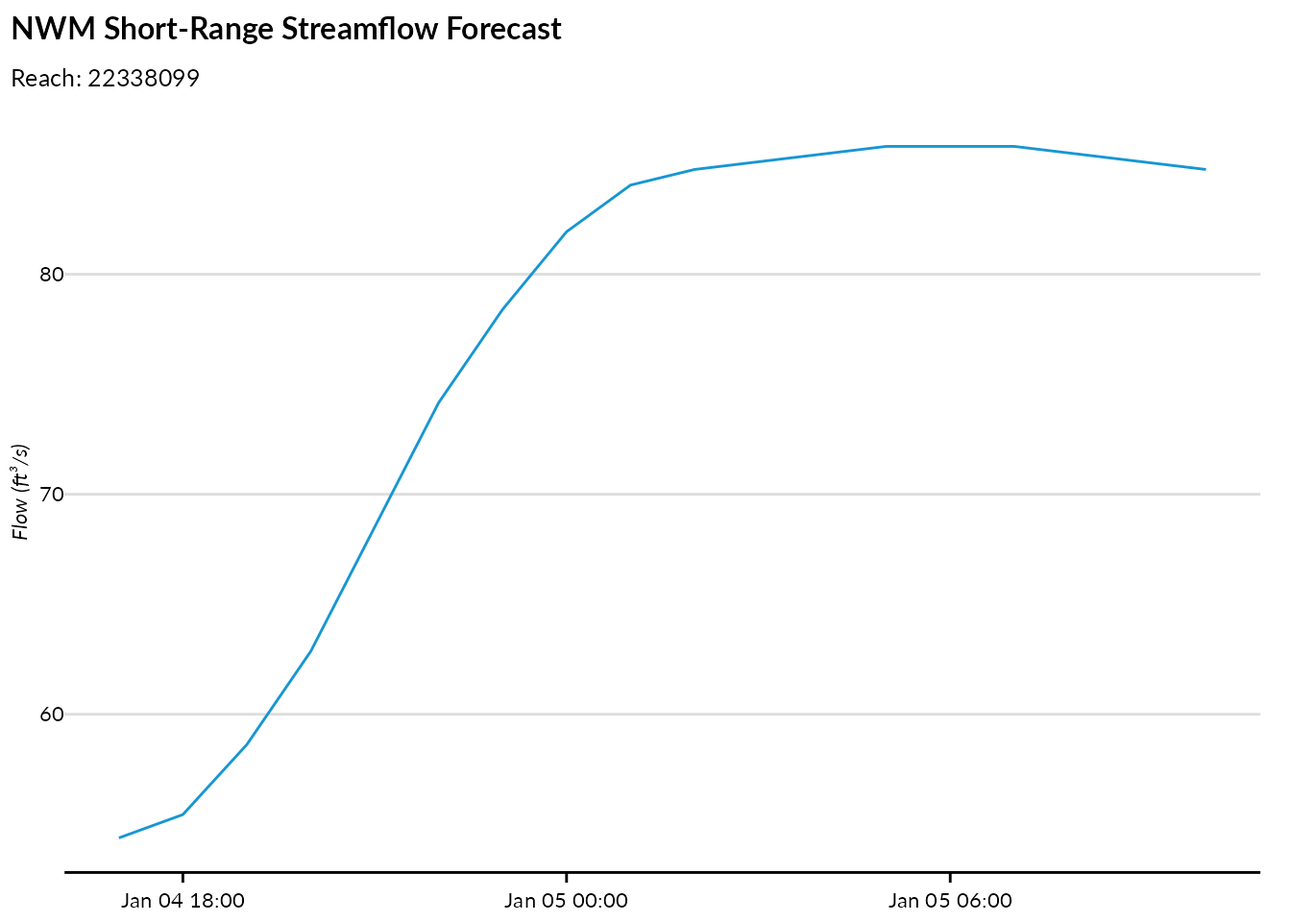
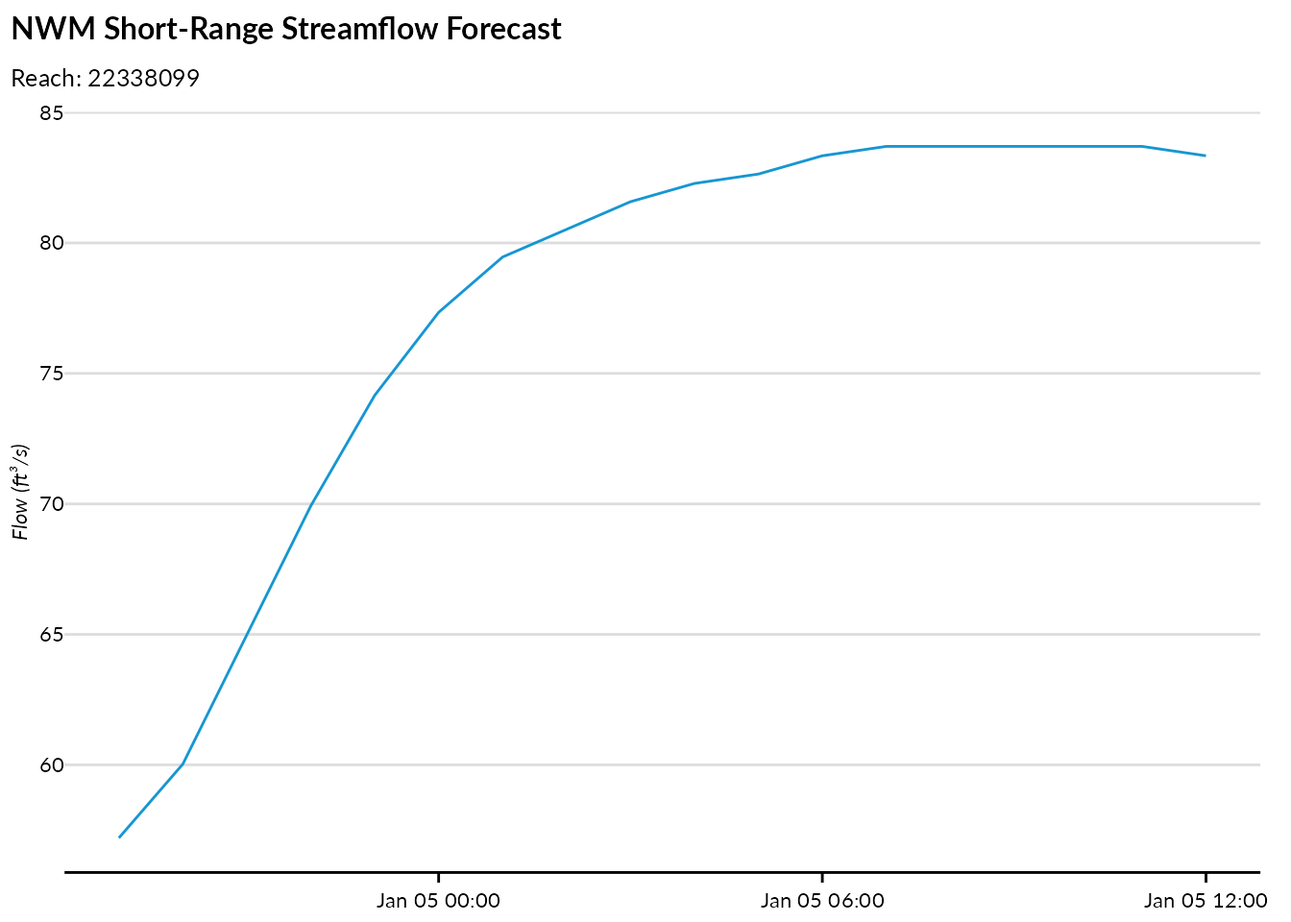
Deploying to gh-pages from @ UI-Research/nwps@914f04903dcc8dd50fd0116cf617ff0b85dbdf1f 🚀

diff --git a/articles/nwps.html b/articles/nwps.html
@@ -36,7 +36,7 @@
 <li class="nav-item"><form class="form-inline" role="search">
  <input class="form-control" type="search" name="search-input" id="search-input" autocomplete="off" aria-label="Search site" placeholder="Search for" data-search-index="../search.json">
 </form></li>
-<li class="nav-item"><a class="external-link nav-link" href="https://github.com/UI-Research/nwps" aria-label="GitHub"><span class="fa fa-github"></span></a></li>
+<li class="nav-item"><a class="external-link nav-link" href="https://github.com/UI-Research/nwps/" aria-label="GitHub"><span class="fa fab fa-github fa-lg"></span></a></li>
       </ul>
 </div>
 
@@ -256,7 +256,7 @@ time series. By default, it returns both observed and forecast data.</p>
 <span><span class="co">#&gt;   product  n_obs min_time            max_time           </span></span>
 <span><span class="co">#&gt;   <span style="color: #949494; font-style: italic;">&lt;chr&gt;</span>    <span style="color: #949494; font-style: italic;">&lt;int&gt;</span> <span style="color: #949494; font-style: italic;">&lt;dttm&gt;</span>              <span style="color: #949494; font-style: italic;">&lt;dttm&gt;</span>             </span></span>
 <span><span class="co">#&gt; <span style="color: #BCBCBC;">1</span> forecast    20 2026-01-04 <span style="color: #949494;">18:00:00</span> 2026-01-09 <span style="color: #949494;">12:00:00</span></span></span>
-<span><span class="co">#&gt; <span style="color: #BCBCBC;">2</span> observed  <span style="text-decoration: underline;">8</span>595 2025-12-05 <span style="color: #949494;">19:40:00</span> 2026-01-04 <span style="color: #949494;">19:00:00</span></span></span></code></pre></div>
+<span><span class="co">#&gt; <span style="color: #BCBCBC;">2</span> observed  <span style="text-decoration: underline;">8</span>594 2025-12-05 <span style="color: #949494;">20:15:00</span> 2026-01-04 <span style="color: #949494;">19:30:00</span></span></span></code></pre></div>
 </div>
 <div class="section level3">
 <h3 id="visualize-the-hydrograph">Visualize the hydrograph<a class="anchor" aria-label="anchor" href="#visualize-the-hydrograph"></a>
@@ -411,16 +411,16 @@ days)</li>
 <span><span class="co">#&gt; <span style="color: #949494;"># A tibble: 10 × 7</span></span></span>
 <span><span class="co">#&gt;    reach_id series    member reference_time      valid_time           flow units</span></span>
 <span><span class="co">#&gt;    <span style="color: #949494; font-style: italic;">&lt;chr&gt;</span>    <span style="color: #949494; font-style: italic;">&lt;chr&gt;</span>     <span style="color: #949494; font-style: italic;">&lt;chr&gt;</span>  <span style="color: #949494; font-style: italic;">&lt;dttm&gt;</span>              <span style="color: #949494; font-style: italic;">&lt;dttm&gt;</span>              <span style="color: #949494; font-style: italic;">&lt;dbl&gt;</span> <span style="color: #949494; font-style: italic;">&lt;chr&gt;</span></span></span>
-<span><span class="co">#&gt; <span style="color: #BCBCBC;"> 1</span> 22338099 short_ra… series 2026-01-04 <span style="color: #949494;">16:00:00</span> 2026-01-04 <span style="color: #949494;">17:00:00</span>  54.4 ft³/s</span></span>
-<span><span class="co">#&gt; <span style="color: #BCBCBC;"> 2</span> 22338099 short_ra… series 2026-01-04 <span style="color: #949494;">16:00:00</span> 2026-01-04 <span style="color: #949494;">18:00:00</span>  55.4 ft³/s</span></span>
-<span><span class="co">#&gt; <span style="color: #BCBCBC;"> 3</span> 22338099 short_ra… series 2026-01-04 <span style="color: #949494;">16:00:00</span> 2026-01-04 <span style="color: #949494;">19:00:00</span>  58.6 ft³/s</span></span>
-<span><span class="co">#&gt; <span style="color: #BCBCBC;"> 4</span> 22338099 short_ra… series 2026-01-04 <span style="color: #949494;">16:00:00</span> 2026-01-04 <span style="color: #949494;">20:00:00</span>  62.9 ft³/s</span></span>
-<span><span class="co">#&gt; <span style="color: #BCBCBC;"> 5</span> 22338099 short_ra… series 2026-01-04 <span style="color: #949494;">16:00:00</span> 2026-01-04 <span style="color: #949494;">21:00:00</span>  68.5 ft³/s</span></span>
-<span><span class="co">#&gt; <span style="color: #BCBCBC;"> 6</span> 22338099 short_ra… series 2026-01-04 <span style="color: #949494;">16:00:00</span> 2026-01-04 <span style="color: #949494;">22:00:00</span>  74.2 ft³/s</span></span>
-<span><span class="co">#&gt; <span style="color: #BCBCBC;"> 7</span> 22338099 short_ra… series 2026-01-04 <span style="color: #949494;">16:00:00</span> 2026-01-04 <span style="color: #949494;">23:00:00</span>  78.4 ft³/s</span></span>
-<span><span class="co">#&gt; <span style="color: #BCBCBC;"> 8</span> 22338099 short_ra… series 2026-01-04 <span style="color: #949494;">16:00:00</span> 2026-01-05 <span style="color: #949494;">00:00:00</span>  81.9 ft³/s</span></span>
-<span><span class="co">#&gt; <span style="color: #BCBCBC;"> 9</span> 22338099 short_ra… series 2026-01-04 <span style="color: #949494;">16:00:00</span> 2026-01-05 <span style="color: #949494;">01:00:00</span>  84.0 ft³/s</span></span>
-<span><span class="co">#&gt; <span style="color: #BCBCBC;">10</span> 22338099 short_ra… series 2026-01-04 <span style="color: #949494;">16:00:00</span> 2026-01-05 <span style="color: #949494;">02:00:00</span>  84.8 ft³/s</span></span></code></pre></div>
+<span><span class="co">#&gt; <span style="color: #BCBCBC;"> 1</span> 22338099 short_ra… series 2026-01-04 <span style="color: #949494;">18:00:00</span> 2026-01-04 <span style="color: #949494;">19:00:00</span>  57.2 ft³/s</span></span>
+<span><span class="co">#&gt; <span style="color: #BCBCBC;"> 2</span> 22338099 short_ra… series 2026-01-04 <span style="color: #949494;">18:00:00</span> 2026-01-04 <span style="color: #949494;">20:00:00</span>  60.0 ft³/s</span></span>
+<span><span class="co">#&gt; <span style="color: #BCBCBC;"> 3</span> 22338099 short_ra… series 2026-01-04 <span style="color: #949494;">18:00:00</span> 2026-01-04 <span style="color: #949494;">21:00:00</span>  65.0 ft³/s</span></span>
+<span><span class="co">#&gt; <span style="color: #BCBCBC;"> 4</span> 22338099 short_ra… series 2026-01-04 <span style="color: #949494;">18:00:00</span> 2026-01-04 <span style="color: #949494;">22:00:00</span>  69.9 ft³/s</span></span>
+<span><span class="co">#&gt; <span style="color: #BCBCBC;"> 5</span> 22338099 short_ra… series 2026-01-04 <span style="color: #949494;">18:00:00</span> 2026-01-04 <span style="color: #949494;">23:00:00</span>  74.2 ft³/s</span></span>
+<span><span class="co">#&gt; <span style="color: #BCBCBC;"> 6</span> 22338099 short_ra… series 2026-01-04 <span style="color: #949494;">18:00:00</span> 2026-01-05 <span style="color: #949494;">00:00:00</span>  77.3 ft³/s</span></span>
+<span><span class="co">#&gt; <span style="color: #BCBCBC;"> 7</span> 22338099 short_ra… series 2026-01-04 <span style="color: #949494;">18:00:00</span> 2026-01-05 <span style="color: #949494;">01:00:00</span>  79.5 ft³/s</span></span>
+<span><span class="co">#&gt; <span style="color: #BCBCBC;"> 8</span> 22338099 short_ra… series 2026-01-04 <span style="color: #949494;">18:00:00</span> 2026-01-05 <span style="color: #949494;">02:00:00</span>  80.5 ft³/s</span></span>
+<span><span class="co">#&gt; <span style="color: #BCBCBC;"> 9</span> 22338099 short_ra… series 2026-01-04 <span style="color: #949494;">18:00:00</span> 2026-01-05 <span style="color: #949494;">03:00:00</span>  81.6 ft³/s</span></span>
+<span><span class="co">#&gt; <span style="color: #BCBCBC;">10</span> 22338099 short_ra… series 2026-01-04 <span style="color: #949494;">18:00:00</span> 2026-01-05 <span style="color: #949494;">04:00:00</span>  82.3 ft³/s</span></span></code></pre></div>
 </div>
 <div class="section level3">
 <h3 id="visualize-nwm-forecasts">Visualize NWM forecasts<a class="anchor" aria-label="anchor" href="#visualize-nwm-forecasts"></a>
@@ -483,12 +483,12 @@ Source) code:</p>
 <span><span class="co">#&gt; <span style="color: #949494;"># A tibble: 6 × 12</span></span></span>
 <span><span class="co">#&gt;   pedts issued_time         wfo   time_zone valid_time         </span></span>
 <span><span class="co">#&gt;   <span style="color: #949494; font-style: italic;">&lt;chr&gt;</span> <span style="color: #949494; font-style: italic;">&lt;dttm&gt;</span>              <span style="color: #949494; font-style: italic;">&lt;chr&gt;</span> <span style="color: #949494; font-style: italic;">&lt;chr&gt;</span>     <span style="color: #949494; font-style: italic;">&lt;dttm&gt;</span>             </span></span>
-<span><span class="co">#&gt; <span style="color: #BCBCBC;">1</span> HGIRG 2026-01-04 <span style="color: #949494;">19:15:00</span> PBZ   EST5EDT   2025-12-05 <span style="color: #949494;">19:35:00</span></span></span>
-<span><span class="co">#&gt; <span style="color: #BCBCBC;">2</span> HGIRG 2026-01-04 <span style="color: #949494;">19:15:00</span> PBZ   EST5EDT   2025-12-05 <span style="color: #949494;">19:40:00</span></span></span>
-<span><span class="co">#&gt; <span style="color: #BCBCBC;">3</span> HGIRG 2026-01-04 <span style="color: #949494;">19:15:00</span> PBZ   EST5EDT   2025-12-05 <span style="color: #949494;">19:45:00</span></span></span>
-<span><span class="co">#&gt; <span style="color: #BCBCBC;">4</span> HGIRG 2026-01-04 <span style="color: #949494;">19:15:00</span> PBZ   EST5EDT   2025-12-05 <span style="color: #949494;">19:50:00</span></span></span>
-<span><span class="co">#&gt; <span style="color: #BCBCBC;">5</span> HGIRG 2026-01-04 <span style="color: #949494;">19:15:00</span> PBZ   EST5EDT   2025-12-05 <span style="color: #949494;">19:55:00</span></span></span>
-<span><span class="co">#&gt; <span style="color: #BCBCBC;">6</span> HGIRG 2026-01-04 <span style="color: #949494;">19:15:00</span> PBZ   EST5EDT   2025-12-05 <span style="color: #949494;">20:00:00</span></span></span>
+<span><span class="co">#&gt; <span style="color: #BCBCBC;">1</span> HGIRG 2026-01-04 <span style="color: #949494;">19:45:00</span> PBZ   EST5EDT   2025-12-05 <span style="color: #949494;">20:05:00</span></span></span>
+<span><span class="co">#&gt; <span style="color: #BCBCBC;">2</span> HGIRG 2026-01-04 <span style="color: #949494;">19:45:00</span> PBZ   EST5EDT   2025-12-05 <span style="color: #949494;">20:10:00</span></span></span>
+<span><span class="co">#&gt; <span style="color: #BCBCBC;">3</span> HGIRG 2026-01-04 <span style="color: #949494;">19:45:00</span> PBZ   EST5EDT   2025-12-05 <span style="color: #949494;">20:15:00</span></span></span>
+<span><span class="co">#&gt; <span style="color: #BCBCBC;">4</span> HGIRG 2026-01-04 <span style="color: #949494;">19:45:00</span> PBZ   EST5EDT   2025-12-05 <span style="color: #949494;">20:20:00</span></span></span>
+<span><span class="co">#&gt; <span style="color: #BCBCBC;">5</span> HGIRG 2026-01-04 <span style="color: #949494;">19:45:00</span> PBZ   EST5EDT   2025-12-05 <span style="color: #949494;">20:25:00</span></span></span>
+<span><span class="co">#&gt; <span style="color: #BCBCBC;">6</span> HGIRG 2026-01-04 <span style="color: #949494;">19:45:00</span> PBZ   EST5EDT   2025-12-05 <span style="color: #949494;">20:30:00</span></span></span>
 <span><span class="co">#&gt; <span style="color: #949494;"># ℹ 7 more variables: generated_time &lt;dttm&gt;, primary &lt;dbl&gt;, primary_name &lt;chr&gt;,</span></span></span>
 <span><span class="co">#&gt; <span style="color: #949494;">#   primary_units &lt;chr&gt;, secondary &lt;dbl&gt;, secondary_name &lt;chr&gt;,</span></span></span>
 <span><span class="co">#&gt; <span style="color: #949494;">#   secondary_units &lt;chr&gt;</span></span></span></code></pre></div>
@@ -510,14 +510,14 @@ status:</p>
 <span><span class="co">#&gt; <span style="color: #949494;"># A tibble: 9 × 3</span></span></span>
 <span><span class="co">#&gt;   type     category        count</span></span>
 <span><span class="co">#&gt;   <span style="color: #949494; font-style: italic;">&lt;chr&gt;</span>    <span style="color: #949494; font-style: italic;">&lt;chr&gt;</span>           <span style="color: #949494; font-style: italic;">&lt;int&gt;</span></span></span>
-<span><span class="co">#&gt; <span style="color: #BCBCBC;">1</span> observed action             27</span></span>
-<span><span class="co">#&gt; <span style="color: #BCBCBC;">2</span> observed low_threshold      99</span></span>
+<span><span class="co">#&gt; <span style="color: #BCBCBC;">1</span> observed action             28</span></span>
+<span><span class="co">#&gt; <span style="color: #BCBCBC;">2</span> observed low_threshold      98</span></span>
 <span><span class="co">#&gt; <span style="color: #BCBCBC;">3</span> observed major               2</span></span>
 <span><span class="co">#&gt; <span style="color: #BCBCBC;">4</span> observed minor               3</span></span>
 <span><span class="co">#&gt; <span style="color: #BCBCBC;">5</span> observed moderate            2</span></span>
-<span><span class="co">#&gt; <span style="color: #BCBCBC;">6</span> observed no_flooding      <span style="text-decoration: underline;">6</span>756</span></span>
-<span><span class="co">#&gt; <span style="color: #BCBCBC;">7</span> observed not_defined      <span style="text-decoration: underline;">3</span>943</span></span>
-<span><span class="co">#&gt; <span style="color: #BCBCBC;">8</span> observed obs_not_current   903</span></span>
+<span><span class="co">#&gt; <span style="color: #BCBCBC;">6</span> observed no_flooding      <span style="text-decoration: underline;">6</span>757</span></span>
+<span><span class="co">#&gt; <span style="color: #BCBCBC;">7</span> observed not_defined      <span style="text-decoration: underline;">3</span>948</span></span>
+<span><span class="co">#&gt; <span style="color: #BCBCBC;">8</span> observed obs_not_current   897</span></span>
 <span><span class="co">#&gt; <span style="color: #BCBCBC;">9</span> observed out_of_service    801</span></span>
 <span></span>
 <span><span class="co"># Gauges by forecast flood category</span></span>
@@ -525,8 +525,8 @@ status:</p>
 <span><span class="co">#&gt; <span style="color: #949494;"># A tibble: 8 × 3</span></span></span>
 <span><span class="co">#&gt;   type     category         count</span></span>
 <span><span class="co">#&gt;   <span style="color: #949494; font-style: italic;">&lt;chr&gt;</span>    <span style="color: #949494; font-style: italic;">&lt;chr&gt;</span>            <span style="color: #949494; font-style: italic;">&lt;int&gt;</span></span></span>
-<span><span class="co">#&gt; <span style="color: #BCBCBC;">1</span> forecast action              40</span></span>
-<span><span class="co">#&gt; <span style="color: #BCBCBC;">2</span> forecast fcst_not_current  <span style="text-decoration: underline;">9</span>608</span></span>
+<span><span class="co">#&gt; <span style="color: #BCBCBC;">1</span> forecast action              39</span></span>
+<span><span class="co">#&gt; <span style="color: #BCBCBC;">2</span> forecast fcst_not_current  <span style="text-decoration: underline;">9</span>609</span></span>
 <span><span class="co">#&gt; <span style="color: #BCBCBC;">3</span> forecast low_threshold        8</span></span>
 <span><span class="co">#&gt; <span style="color: #BCBCBC;">4</span> forecast minor                6</span></span>
 <span><span class="co">#&gt; <span style="color: #BCBCBC;">5</span> forecast moderate             1</span></span>
@@ -542,15 +542,15 @@ processing:</p>
 <span><span class="co">#&gt;    time_period count</span></span>
 <span><span class="co">#&gt;    <span style="color: #949494; font-style: italic;">&lt;chr&gt;</span>       <span style="color: #949494; font-style: italic;">&lt;int&gt;</span></span></span>
 <span><span class="co">#&gt; <span style="color: #BCBCBC;"> 1</span> t-10day     <span style="text-decoration: underline;">47</span>073</span></span>
-<span><span class="co">#&gt; <span style="color: #BCBCBC;"> 2</span> t-10hour     <span style="text-decoration: underline;">1</span>963</span></span>
+<span><span class="co">#&gt; <span style="color: #BCBCBC;"> 2</span> t-10hour     <span style="text-decoration: underline;">1</span>961</span></span>
 <span><span class="co">#&gt; <span style="color: #BCBCBC;"> 3</span> t-11day     <span style="text-decoration: underline;">47</span>112</span></span>
-<span><span class="co">#&gt; <span style="color: #BCBCBC;"> 4</span> t-11hour     <span style="text-decoration: underline;">1</span>962</span></span>
+<span><span class="co">#&gt; <span style="color: #BCBCBC;"> 4</span> t-11hour     <span style="text-decoration: underline;">1</span>963</span></span>
 <span><span class="co">#&gt; <span style="color: #BCBCBC;"> 5</span> t-12day     <span style="text-decoration: underline;">47</span>115</span></span>
-<span><span class="co">#&gt; <span style="color: #BCBCBC;"> 6</span> t-12hour     <span style="text-decoration: underline;">1</span>960</span></span>
+<span><span class="co">#&gt; <span style="color: #BCBCBC;"> 6</span> t-12hour     <span style="text-decoration: underline;">1</span>962</span></span>
 <span><span class="co">#&gt; <span style="color: #BCBCBC;"> 7</span> t-13day     <span style="text-decoration: underline;">47</span>117</span></span>
-<span><span class="co">#&gt; <span style="color: #BCBCBC;"> 8</span> t-13hour     <span style="text-decoration: underline;">1</span>959</span></span>
+<span><span class="co">#&gt; <span style="color: #BCBCBC;"> 8</span> t-13hour     <span style="text-decoration: underline;">1</span>960</span></span>
 <span><span class="co">#&gt; <span style="color: #BCBCBC;"> 9</span> t-14day     <span style="text-decoration: underline;">47</span>032</span></span>
-<span><span class="co">#&gt; <span style="color: #BCBCBC;">10</span> t-14hour     <span style="text-decoration: underline;">1</span>963</span></span>
+<span><span class="co">#&gt; <span style="color: #BCBCBC;">10</span> t-14hour     <span style="text-decoration: underline;">1</span>959</span></span>
 <span><span class="co">#&gt; <span style="color: #949494;"># ℹ 92 more rows</span></span></span>
 <span></span>
 <span><span class="co"># Long Range Outlook status</span></span>

diff --git a/reference/index.html b/reference/index.html
@@ -19,7 +19,7 @@
 <li class="active nav-item"><a class="nav-link" href="../reference/index.html">Reference</a></li>
       </ul><ul class="navbar-nav"><li class="nav-item"><form class="form-inline" role="search">
  <input class="form-control" type="search" name="search-input" id="search-input" autocomplete="off" aria-label="Search site" placeholder="Search for" data-search-index="../search.json"></form></li>
-<li class="nav-item"><a class="external-link nav-link" href="https://github.com/UI-Research/nwps" aria-label="GitHub"><span class="fa fa-github"></span></a></li>
+<li class="nav-item"><a class="external-link nav-link" href="https://github.com/UI-Research/nwps/" aria-label="GitHub"><span class="fa fab fa-github fa-lg"></span></a></li>
       </ul></div>
 
 
@@ -32,9 +32,9 @@
     </div>
 
     <div class="section level2">
-      <h2 id="gauge-functions">Gauge Functions<a class="anchor" aria-label="anchor" href="#gauge-functions"></a></h2>
+      <h2 id="all-functions">All functions<a class="anchor" aria-label="anchor" href="#all-functions"></a></h2>
 
-      <div class="section-desc"><p>Functions for accessing gauge data</p></div>
+
 
       <dl></dl></div><div class="section level2">
 
@@ -42,13 +42,6 @@
 
 
       <dl><dt>
-
-          <code><a href="nwps_gauges.html">nwps_gauges()</a></code>
-
-        </dt>
-        <dd>List NWPS gauges</dd>
-
-        <dt>
 
           <code><a href="nwps_gauge.html">nwps_gauge()</a></code>
 
@@ -68,17 +61,29 @@
 
         </dt>
         <dd>Get gauge stage/flow data</dd>
-      </dl></div><div class="section level2">
-      <h2 id="reach-functions">Reach Functions<a class="anchor" aria-label="anchor" href="#reach-functions"></a></h2>
 
-      <div class="section-desc"><p>Functions for accessing NWM reach data</p></div>
+        <dt>
 
-      <dl></dl></div><div class="section level2">
+          <code><a href="nwps_gauges.html">nwps_gauges()</a></code>
 
+        </dt>
+        <dd>List NWPS gauges</dd>
 
+        <dt>
 
+          <code><a href="nwps_monitor.html">nwps_monitor()</a></code>
 
-      <dl><dt>
+        </dt>
+        <dd>Get NWPS system monitoring status</dd>
+
+        <dt>
+
+          <code><a href="nwps_product_stageflow.html">nwps_product_stageflow()</a></code>
+
+        </dt>
+        <dd>Get stage/flow product by PEDTS code</dd>
+
+        <dt>
 
           <code><a href="nwps_reach.html">nwps_reach()</a></code>
 
@@ -91,41 +96,8 @@
 
         </dt>
         <dd>Get NWM reach streamflow forecasts</dd>
-      </dl></div><div class="section level2">
-      <h2 id="product-functions">Product Functions<a class="anchor" aria-label="anchor" href="#product-functions"></a></h2>
-
-      <div class="section-desc"><p>Functions for accessing stage/flow products</p></div>
-
-      <dl></dl></div><div class="section level2">
-
-
-
-
-      <dl><dt>
-
-          <code><a href="nwps_product_stageflow.html">nwps_product_stageflow()</a></code>
-
-        </dt>
-        <dd>Get stage/flow product by PEDTS code</dd>
-      </dl></div><div class="section level2">
-      <h2 id="utilities">Utilities<a class="anchor" aria-label="anchor" href="#utilities"></a></h2>
-
-      <div class="section-desc"><p>Helper and monitoring functions</p></div>
-
-      <dl></dl></div><div class="section level2">
-
-
-
-
-      <dl><dt>
-
-          <code><a href="nwps_monitor.html">nwps_monitor()</a></code>
-
-        </dt>
-        <dd>Get NWPS system monitoring status</dd>
       </dl></div>
-  </main><aside class="col-md-3"><nav id="toc" aria-label="Table of contents"><h2>On this page</h2>
-    </nav></aside></div>
+  </main></div>
 
 
     <footer><div class="pkgdown-footer-left">

diff --git a/reference/nwps_gauge_ratings.html b/reference/nwps_gauge_ratings.html
@@ -21,7 +21,7 @@ define the relationship between water level (stage) and discharge (flow)."></hea
 <li class="active nav-item"><a class="nav-link" href="../reference/index.html">Reference</a></li>
       </ul><ul class="navbar-nav"><li class="nav-item"><form class="form-inline" role="search">
  <input class="form-control" type="search" name="search-input" id="search-input" autocomplete="off" aria-label="Search site" placeholder="Search for" data-search-index="../search.json"></form></li>
-<li class="nav-item"><a class="external-link nav-link" href="https://github.com/UI-Research/nwps" aria-label="GitHub"><span class="fa fa-github"></span></a></li>
+<li class="nav-item"><a class="external-link nav-link" href="https://github.com/UI-Research/nwps/" aria-label="GitHub"><span class="fa fab fa-github fa-lg"></span></a></li>
       </ul></div>
 
 

diff --git a/reference/nwps_product_stageflow.html b/reference/nwps_product_stageflow.html
@@ -23,7 +23,7 @@ which specific data product to retrieve compared to nwps_gauge_stageflow()."></h
 <li class="active nav-item"><a class="nav-link" href="../reference/index.html">Reference</a></li>
       </ul><ul class="navbar-nav"><li class="nav-item"><form class="form-inline" role="search">
  <input class="form-control" type="search" name="search-input" id="search-input" autocomplete="off" aria-label="Search site" placeholder="Search for" data-search-index="../search.json"></form></li>
-<li class="nav-item"><a class="external-link nav-link" href="https://github.com/UI-Research/nwps" aria-label="GitHub"><span class="fa fa-github"></span></a></li>
+<li class="nav-item"><a class="external-link nav-link" href="https://github.com/UI-Research/nwps/" aria-label="GitHub"><span class="fa fab fa-github fa-lg"></span></a></li>
       </ul></div>
 
 

diff --git a/reference/nwps_reach.html b/reference/nwps_reach.html
@@ -21,7 +21,7 @@ location, available streamflow products, and upstream/downstream routing."></hea
 <li class="active nav-item"><a class="nav-link" href="../reference/index.html">Reference</a></li>
       </ul><ul class="navbar-nav"><li class="nav-item"><form class="form-inline" role="search">
  <input class="form-control" type="search" name="search-input" id="search-input" autocomplete="off" aria-label="Search site" placeholder="Search for" data-search-index="../search.json"></form></li>
-<li class="nav-item"><a class="external-link nav-link" href="https://github.com/UI-Research/nwps" aria-label="GitHub"><span class="fa fa-github"></span></a></li>
+<li class="nav-item"><a class="external-link nav-link" href="https://github.com/UI-Research/nwps/" aria-label="GitHub"><span class="fa fab fa-github fa-lg"></span></a></li>
       </ul></div>
 
 

diff --git a/reference/nwps_gauges.html b/reference/nwps_gauges.html
@@ -21,7 +21,7 @@ optionally filtered by bounding box and CatFIM configuration."></head><body>
 <li class="active nav-item"><a class="nav-link" href="../reference/index.html">Reference</a></li>
       </ul><ul class="navbar-nav"><li class="nav-item"><form class="form-inline" role="search">
  <input class="form-control" type="search" name="search-input" id="search-input" autocomplete="off" aria-label="Search site" placeholder="Search for" data-search-index="../search.json"></form></li>
-<li class="nav-item"><a class="external-link nav-link" href="https://github.com/UI-Research/nwps" aria-label="GitHub"><span class="fa fa-github"></span></a></li>
+<li class="nav-item"><a class="external-link nav-link" href="https://github.com/UI-Research/nwps/" aria-label="GitHub"><span class="fa fab fa-github fa-lg"></span></a></li>
       </ul></div>
 
 

diff --git a/reference/nwps_monitor.html b/reference/nwps_monitor.html
@@ -23,7 +23,7 @@ processing stats, and LRO (Long Range Outlook) data status."></head><body>
 <li class="active nav-item"><a class="nav-link" href="../reference/index.html">Reference</a></li>
       </ul><ul class="navbar-nav"><li class="nav-item"><form class="form-inline" role="search">
  <input class="form-control" type="search" name="search-input" id="search-input" autocomplete="off" aria-label="Search site" placeholder="Search for" data-search-index="../search.json"></form></li>
-<li class="nav-item"><a class="external-link nav-link" href="https://github.com/UI-Research/nwps" aria-label="GitHub"><span class="fa fa-github"></span></a></li>
+<li class="nav-item"><a class="external-link nav-link" href="https://github.com/UI-Research/nwps/" aria-label="GitHub"><span class="fa fab fa-github fa-lg"></span></a></li>
       </ul></div>
 
 

diff --git a/reference/nwps_reach_streamflow.html b/reference/nwps_reach_streamflow.html
@@ -23,7 +23,7 @@ configurations."></head><body>
 <li class="active nav-item"><a class="nav-link" href="../reference/index.html">Reference</a></li>
       </ul><ul class="navbar-nav"><li class="nav-item"><form class="form-inline" role="search">
  <input class="form-control" type="search" name="search-input" id="search-input" autocomplete="off" aria-label="Search site" placeholder="Search for" data-search-index="../search.json"></form></li>
-<li class="nav-item"><a class="external-link nav-link" href="https://github.com/UI-Research/nwps" aria-label="GitHub"><span class="fa fa-github"></span></a></li>
+<li class="nav-item"><a class="external-link nav-link" href="https://github.com/UI-Research/nwps/" aria-label="GitHub"><span class="fa fab fa-github fa-lg"></span></a></li>
       </ul></div>
 
 

diff --git a/reference/nwps_gauge_stageflow.html b/reference/nwps_gauge_stageflow.html
@@ -21,7 +21,7 @@ a gauge."></head><body>
 <li class="active nav-item"><a class="nav-link" href="../reference/index.html">Reference</a></li>
       </ul><ul class="navbar-nav"><li class="nav-item"><form class="form-inline" role="search">
  <input class="form-control" type="search" name="search-input" id="search-input" autocomplete="off" aria-label="Search site" placeholder="Search for" data-search-index="../search.json"></form></li>
-<li class="nav-item"><a class="external-link nav-link" href="https://github.com/UI-Research/nwps" aria-label="GitHub"><span class="fa fa-github"></span></a></li>
+<li class="nav-item"><a class="external-link nav-link" href="https://github.com/UI-Research/nwps/" aria-label="GitHub"><span class="fa fab fa-github fa-lg"></span></a></li>
       </ul></div>
 
 

diff --git a/reference/nwps_gauge.html b/reference/nwps_gauge.html
@@ -19,7 +19,7 @@
 <li class="active nav-item"><a class="nav-link" href="../reference/index.html">Reference</a></li>
       </ul><ul class="navbar-nav"><li class="nav-item"><form class="form-inline" role="search">
  <input class="form-control" type="search" name="search-input" id="search-input" autocomplete="off" aria-label="Search site" placeholder="Search for" data-search-index="../search.json"></form></li>
-<li class="nav-item"><a class="external-link nav-link" href="https://github.com/UI-Research/nwps" aria-label="GitHub"><span class="fa fa-github"></span></a></li>
+<li class="nav-item"><a class="external-link nav-link" href="https://github.com/UI-Research/nwps/" aria-label="GitHub"><span class="fa fab fa-github fa-lg"></span></a></li>
       </ul></div>
 
 

diff --git a/articles/index.html b/articles/index.html
@@ -19,7 +19,7 @@
 <li class="nav-item"><a class="nav-link" href="../reference/index.html">Reference</a></li>
       </ul><ul class="navbar-nav"><li class="nav-item"><form class="form-inline" role="search">
  <input class="form-control" type="search" name="search-input" id="search-input" autocomplete="off" aria-label="Search site" placeholder="Search for" data-search-index="../search.json"></form></li>
-<li class="nav-item"><a class="external-link nav-link" href="https://github.com/UI-Research/nwps" aria-label="GitHub"><span class="fa fa-github"></span></a></li>
+<li class="nav-item"><a class="external-link nav-link" href="https://github.com/UI-Research/nwps/" aria-label="GitHub"><span class="fa fab fa-github fa-lg"></span></a></li>
       </ul></div>
 
 

diff --git a/CLAUDE.html b/CLAUDE.html
@@ -19,7 +19,7 @@
 <li class="nav-item"><a class="nav-link" href="reference/index.html">Reference</a></li>
       </ul><ul class="navbar-nav"><li class="nav-item"><form class="form-inline" role="search">
  <input class="form-control" type="search" name="search-input" id="search-input" autocomplete="off" aria-label="Search site" placeholder="Search for" data-search-index="search.json"></form></li>
-<li class="nav-item"><a class="external-link nav-link" href="https://github.com/UI-Research/nwps" aria-label="GitHub"><span class="fa fa-github"></span></a></li>
+<li class="nav-item"><a class="external-link nav-link" href="https://github.com/UI-Research/nwps/" aria-label="GitHub"><span class="fa fab fa-github fa-lg"></span></a></li>
       </ul></div>
 
 
